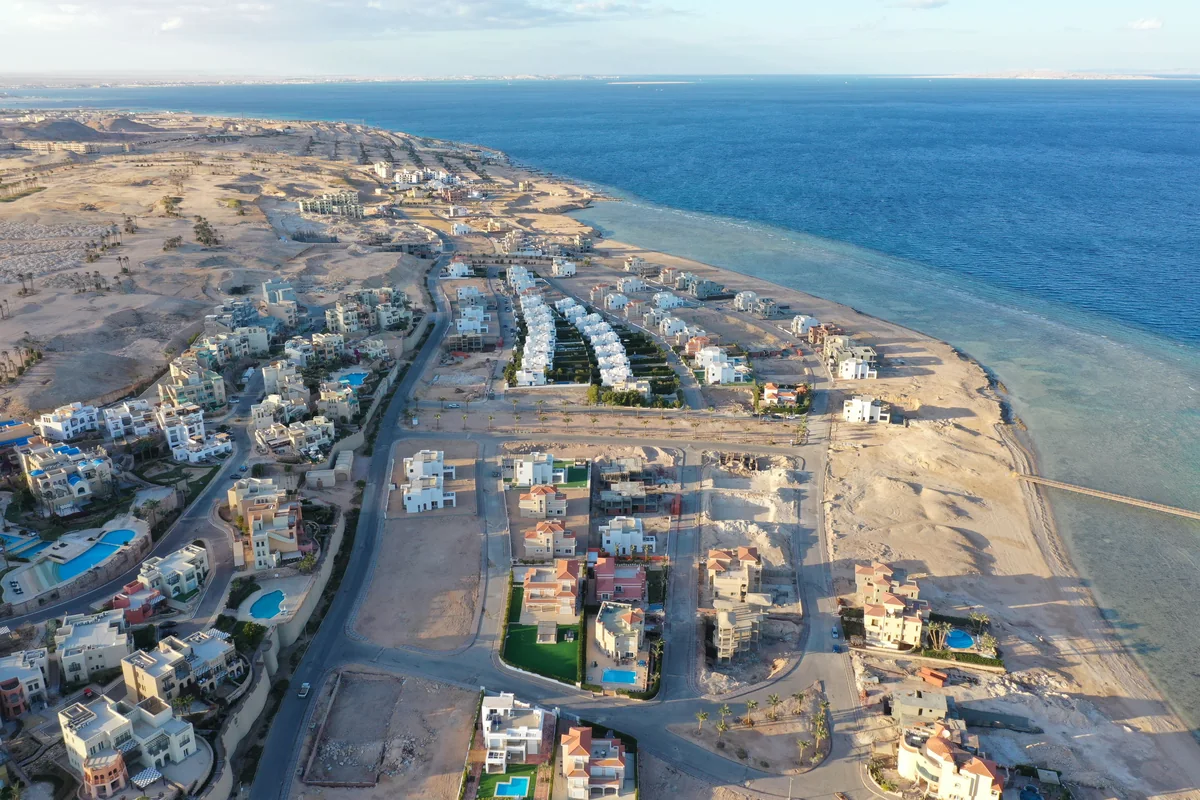
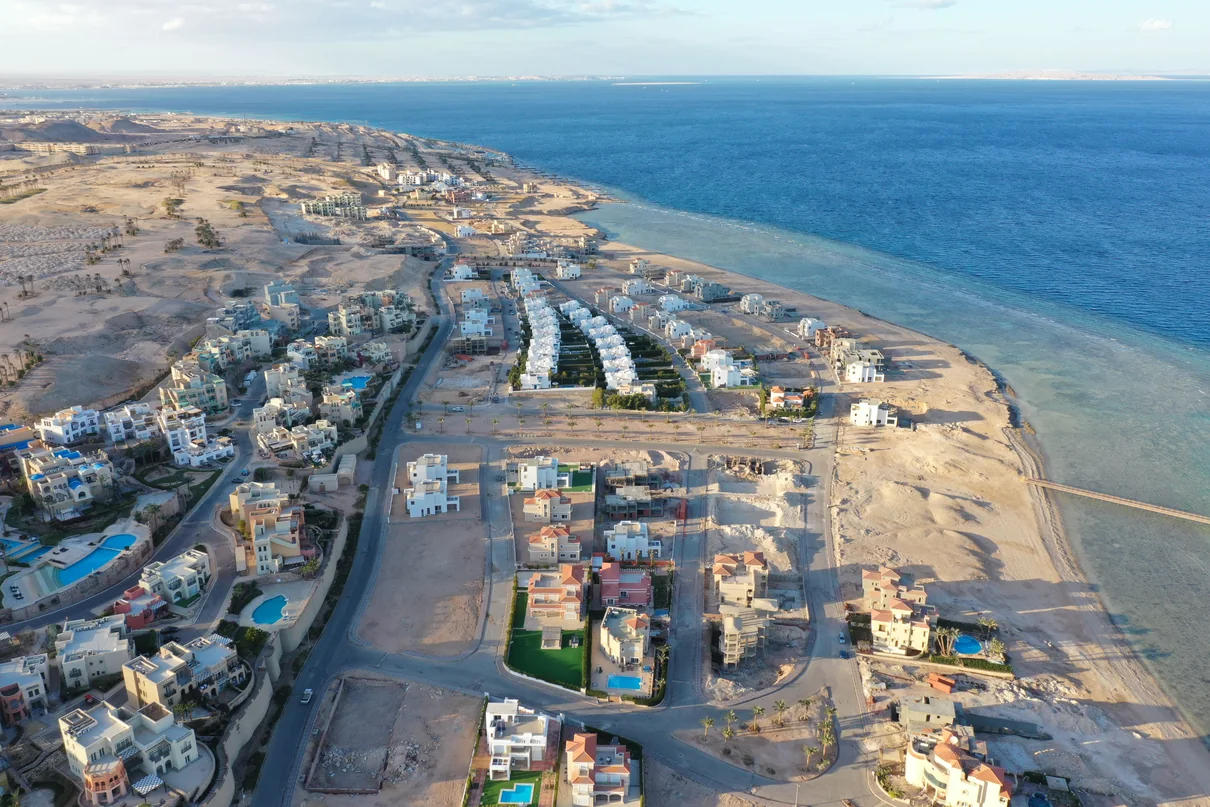
Apply remaining client header and image corrections

Changed region(s): [[0.3392, 0.2188, 0.37, 0.25]]

diff --git a/src/app/components/luxride/data.test.ts b/src/app/components/luxride/data.test.ts
@@ -185,10 +185,10 @@ describe("vehicle and booking validation", () => {
     expect(findRoute("Hurghada", "Sharm El Sheikh")?.image).toBe(IMAGES.sharm);
     expect(IMAGES.airport).toContain("hurghada-airport-transfer.webp");
     expect(IMAGES.cityAirportTransfer).toContain("hurghada-city-airport-transfer.webp");
-    expect(IMAGES.luxor).toContain("luxor-client-destination.webp");
+    expect(IMAGES.luxor).toContain("luxor-private-transfer.webp");
     expect(IMAGES.aswan).toContain("aswan-private-transfer.webp");
-    expect(IMAGES.cairo).toContain("cairo-client-destination.webp");
-    expect(IMAGES.villageRoad).toContain("village-road-client-transfer.webp");
+    expect(IMAGES.cairo).toContain("cairo-pyramids-transfer.webp");
+    expect(IMAGES.villageRoad).toContain("village-road-transfer.webp");
     expect(IMAGES.wadiElGemal).toContain("wadi-el-gemal-transfer.webp");
     expect(IMAGES.sharm).toContain("Sharm_El_Sheikh._Naama_Bay..jpg");
     expect(new Set([IMAGES.luxor, IMAGES.aswan, IMAGES.cairo, IMAGES.alexandria, IMAGES.sharm]).size).toBe(5);
@@ -234,6 +234,16 @@ describe("latest desktop client-review integration", () => {
     expect(routes).toContain('{ path: "experiences", Component: JourneysPage }');
     expect(routes).toContain('{ path: "featured-transfers", element: <Navigate to="/experiences" replace /> }');
     expect(routes).toContain('{ path: "journeys", element: <Navigate to="/experiences" replace /> }');
+  });
+
+  it("uses the shared branded inner-page header on client-requested pages", () => {
+    expect(readSource("../../pages/AboutPage.tsx")).toContain('tone="brand"');
+    expect(readSource("../../pages/FAQPage.tsx")).toContain('tone="brand"');
+    expect(readSource("../../pages/FleetPage.tsx")).toContain('tone="brand"');
+    expect(readSource("../../pages/BookingPage.tsx")).toContain('tone="brand"');
+    const pageShell = readSource("./PageShell.tsx");
+    expect(pageShell).toContain("bg-[#F6EFE6]");
+    expect(pageShell).toContain("radial-gradient(circle_at_top_left");
   });
 
   it("keeps homepage sections in the approved order with Unforgettable Experiences in place", () => {
@@ -296,14 +306,14 @@ describe("latest desktop client-review integration", () => {
       airport: "images.jpg",
       hurghadaCityAirportTransfer: "Airport.jpg",
       makadi: "Makadi-Bay.jpg",
-      villageRoad: "LuxRide.jpg",
+      villageRoad: "Village-Road.jpg",
       elGouna: "Elguna.jpg",
       soma: "Soma-Bay.jpg",
       marsaAlam: "Marsa-Allam.jpg",
       marsaAlamSecondary: "Marsa-Allam2.jpg",
-      cairo: "images-1.jpg",
+      cairo: "Pyramids.jpg",
       aswan: "Aswan2.jpg",
-      luxor: "images-2.jpg",
+      luxor: "Luxor.jpg",
       luxorSecondary: "Luxor2.jpg",
       wadiElGemal: "04-Robin-Utrecht-1.jpg",
     });

diff --git a/src/app/components/luxride/data.ts b/src/app/components/luxride/data.ts
@@ -7,11 +7,11 @@ import hiacaImg from "../../../assets/vehicles/hiace.webp";
 import aboutTransferImg from "../../../assets/about/luxride-about-transfer.webp";
 import airportImg from "../../../assets/destinations/hurghada-airport-transfer.webp";
 import cityAirportTransferImg from "../../../assets/destinations/hurghada-city-airport-transfer.webp";
-import villageRoadImg from "../../../assets/destinations/village-road-client-transfer.webp";
-import cairoPyramidsImg from "../../../assets/destinations/cairo-client-destination.webp";
+import villageRoadImg from "../../../assets/destinations/village-road-transfer.webp";
+import cairoPyramidsImg from "../../../assets/destinations/cairo-pyramids-transfer.webp";
 import marsaAlamImg from "../../../assets/destinations/marsa-alam-transfer.webp";
 import marsaAlamBeachImg from "../../../assets/destinations/marsa-alam-beach-transfer.webp";
-import luxorImg from "../../../assets/destinations/luxor-client-destination.webp";
+import luxorImg from "../../../assets/destinations/luxor-private-transfer.webp";
 import luxorStatueImg from "../../../assets/destinations/luxor-statue-transfer.webp";
 import elGounaImg from "../../../assets/destinations/el-gouna-transfer.webp";
 import makadiBayImg from "../../../assets/destinations/makadi-bay-transfer.webp";
@@ -67,14 +67,14 @@ export const DESTINATION_IMAGE_SOURCE_FILES = {
   airport: "images.jpg",
   hurghadaCityAirportTransfer: "Airport.jpg",
   makadi: "Makadi-Bay.jpg",
-  villageRoad: "LuxRide.jpg",
+  villageRoad: "Village-Road.jpg",
   elGouna: "Elguna.jpg",
   soma: "Soma-Bay.jpg",
   marsaAlam: "Marsa-Allam.jpg",
   marsaAlamSecondary: "Marsa-Allam2.jpg",
-  cairo: "images-1.jpg",
+  cairo: "Pyramids.jpg",
   aswan: "Aswan2.jpg",
-  luxor: "images-2.jpg",
+  luxor: "Luxor.jpg",
   luxorSecondary: "Luxor2.jpg",
   sharm: "Wikimedia Commons: Sharm_El_Sheikh._Naama_Bay..jpg",
   wadiElGemal: "04-Robin-Utrecht-1.jpg",
@@ -82,7 +82,10 @@ export const DESTINATION_IMAGE_SOURCE_FILES = {
 
 export const SUPERSEDED_SOURCE_IMAGE_FILES = [
   "507879331.jpg",
+  "images-1.jpg",
+  "images-2.jpg",
   "pic-panorama-bungalows-resort-el-gouna-hurghada-55.jpg",
+  "LuxRide.jpg",
 ] as const;
 
 // ─── Contact (real business details) ─────────────────────────────────────────

diff --git a/src/app/pages/BookingPage.tsx b/src/app/pages/BookingPage.tsx
@@ -29,6 +29,7 @@ import {
 } from "../components/luxride/data";
 import { addDays, formatEur, isValidReturn, normalizeReturnFields, readInitialBookingState } from "../components/luxride/bookingState";
 import { locationLabel, useLang } from "../components/luxride/i18n";
+import { PageShell } from "../components/luxride/PageShell";
 import { VehicleSegmentedSelector } from "../components/luxride/VehicleSegmentedSelector";
 import { WhatsAppIcon } from "../components/luxride/WhatsAppIcon";
 
@@ -188,22 +189,13 @@ export function BookingPage() {
   };
 
   return (
+    <PageShell
+      crumb={isAR ? "الحجز" : "Booking"}
+      title={isAR ? "احجز توصيلة" : "Book Your Transfer"}
+      subtitle={isAR ? "أسعار ثابتة · بدون رسوم خفية" : "Fixed prices · No hidden fees"}
+      tone="brand"
+    >
     <div className="min-h-screen bg-gray-50 pb-24">
-      {/* Page header */}
-      <div className="bg-lux-green py-10 pt-28 md:pt-32">
-        <div className="mx-auto max-w-3xl px-4 text-center md:px-8">
-          <h1
-            className="text-white"
-            style={{ fontFamily: hFamily, fontSize: "clamp(2rem, 5vw, 3rem)", fontWeight: 800 }}
-          >
-            {isAR ? "احجز توصيلة" : "Book Your Transfer"}
-          </h1>
-          <p className="mt-2 text-white/80">
-            {isAR ? "أسعار ثابتة · بدون رسوم خفية" : "Fixed prices · No hidden fees"}
-          </p>
-        </div>
-      </div>
-
       {/* Stepper */}
       <div className="bg-white border-b border-gray-100 shadow-sm sticky top-[calc(var(--header-h,72px))] z-20">
         <div className="mx-auto flex max-w-3xl px-4 md:px-8">
@@ -565,6 +557,7 @@ export function BookingPage() {
         )}
       </div>
     </div>
+    </PageShell>
   );
 }
 

diff --git a/src/app/pages/FAQPage.tsx b/src/app/pages/FAQPage.tsx
@@ -19,6 +19,7 @@ export function FAQPage() {
       crumb={L("FAQ", "الأسئلة الشائعة")}
       title={L("Frequently Asked Questions", "الأسئلة الشائعة")}
       subtitle={L("Everything you need to know about booking, pricing, permits and travelling with LuxRide.", "كل ما تحتاج معرفته عن الحجز والأسعار والتصاريح والسفر مع LuxRide.")}
+      tone="brand"
     >
       <section className="bg-lux-beige py-16 md:py-24">
         <div className="mx-auto max-w-3xl px-4 md:px-8">

diff --git a/src/app/pages/FleetPage.tsx b/src/app/pages/FleetPage.tsx
@@ -16,6 +16,7 @@ export function FleetPage() {
         "Choose the modern, air-conditioned vehicle that best fits your group and luggage.",
         "اختر السيارة الحديثة والمكيفة التي تناسب مجموعتك وأمتعتك.",
       )}
+      tone="brand"
     >
       <section className="bg-lux-beige py-16 md:py-24">
         <div className="mx-auto grid max-w-7xl grid-cols-1 gap-8 px-4 md:px-8 lg:grid-cols-3">

diff --git a/CLIENT_INPUT_REQUIRED.md b/CLIENT_INPUT_REQUIRED.md
@@ -9,6 +9,8 @@ Only unresolved client-owned or operational information is listed here. None of 
 | Route-specific driver accommodation rules | Applying the €33 accommodation fee only where explicitly required |
 | Admission-fee policy | Clarifying whether any attraction admission is included or excluded from tour pricing |
 | Commercial-use confirmation for `Al-Mina_Mosque_in_Hurghada10.jpg` | Approving the client-provided hero image for final production use |
+| Commercial-use confirmation for `04-Robin-Utrecht-1.jpg` | Confirming the current client-selected Wadi El Gemal review image can be used commercially |
+| Commercial-use confirmation for `images.jpg` | Confirming the current generic Hurghada Airport destination image can be used commercially |
 | Remaining destination-image approvals not covered by the latest licensed-source replacement set | Replacing any remaining destination imagery if the client provides newer production-approved assets |
 | Final Privacy Policy and Terms and Conditions text | Replacing the neutral review drafts after legal approval |
 | Final production availability of Corolla and HiAce | Confirming whether Corolla and HiAce remain Coming Soon after client testing |
